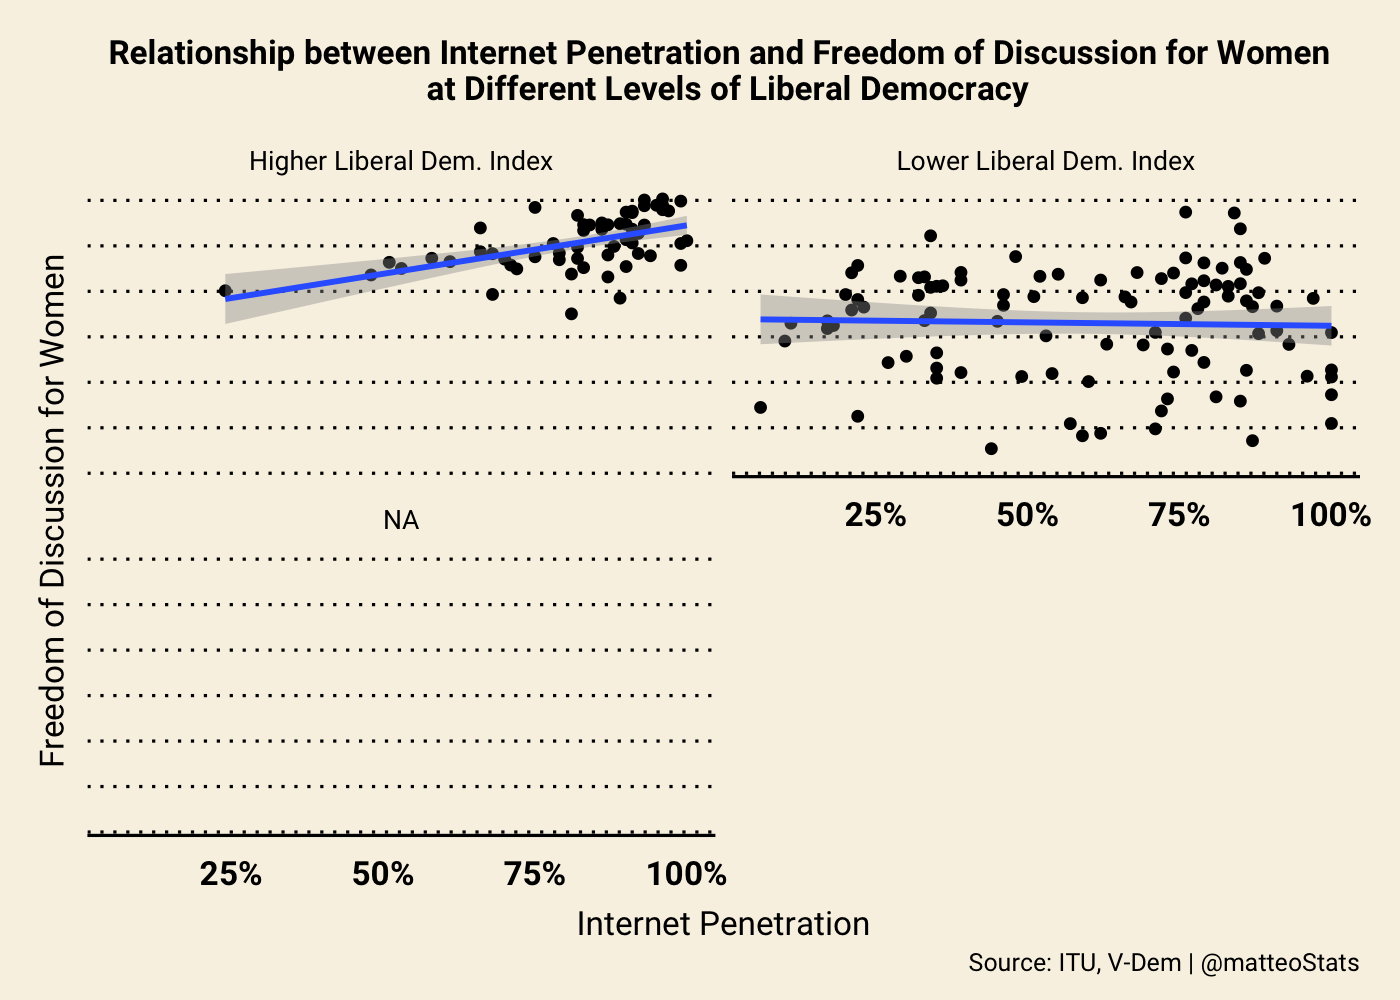
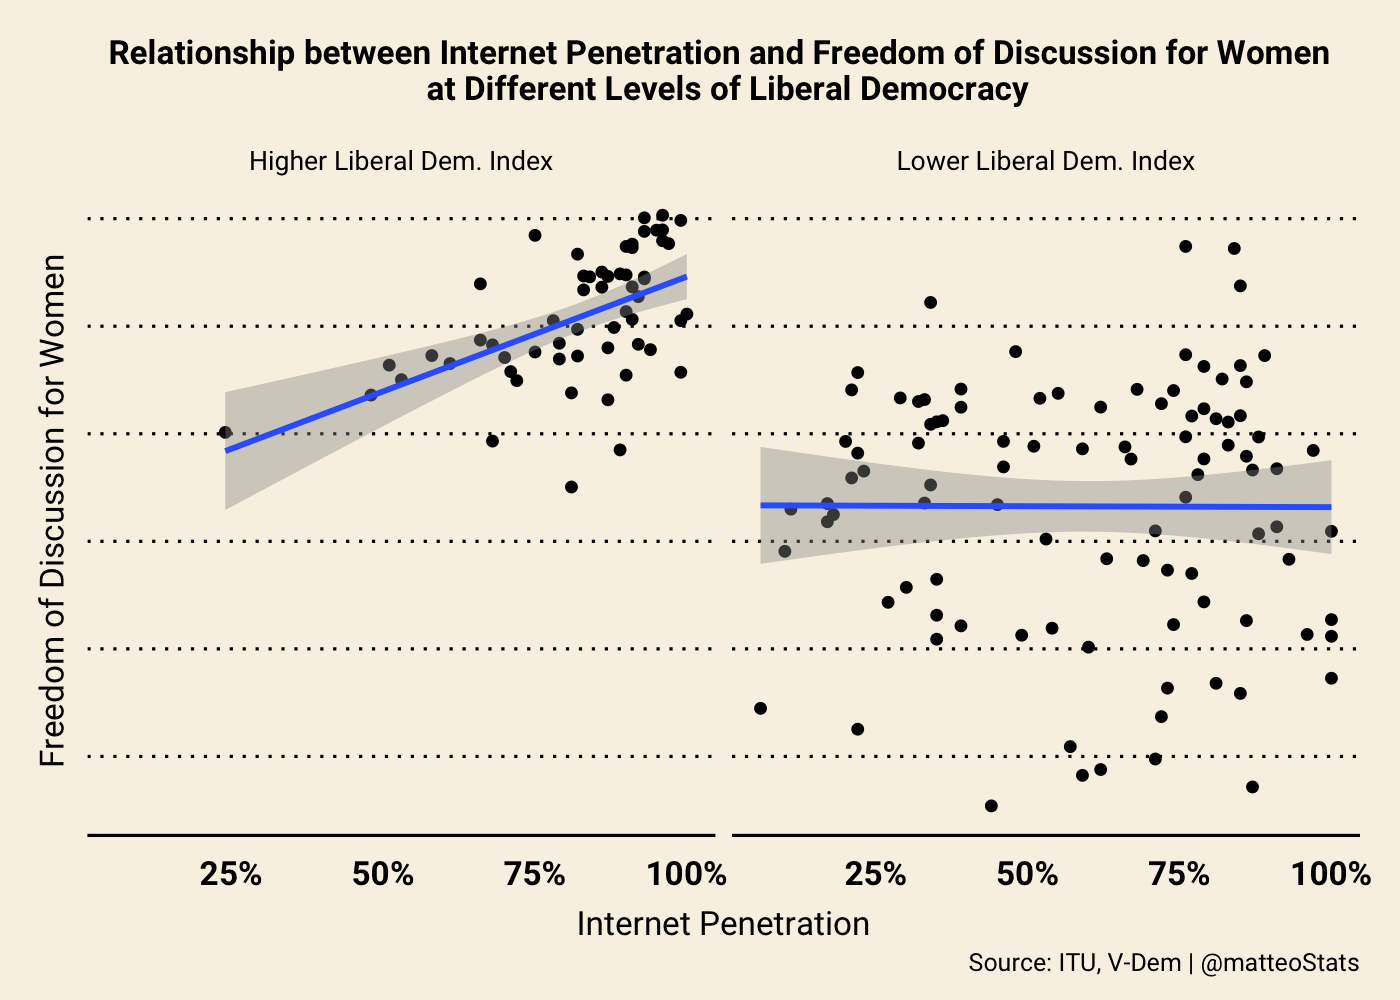
work on report

diff --git a/README.md b/README.md
@@ -5,11 +5,10 @@ Matteo Larrode
 
 ## Intro
 
-I am passionate about both political science and technology, so I grew
-interested in the effect of the rise and diffusion of new technologies
-on international relations. One particular topic that fascinates me is
-the relationship between internet use, especially activity on social
-networks, and freedom of speech.
+A growing body of literature is interested in the effect of the rise and
+diffusion of new technologies on international relations. One particular
+topic we are interested in is the relationship between internet use,
+especially activity on social networks, and freedom of speech.
 
 Social media platforms have fundamentally transformed the landscape of
 social and political movements. They have allowed individuals to bypass
@@ -21,79 +20,13 @@ censored by governments, potentially putting activists at risk.
 
 ## Data Preparation
 
-I created a dataset called “final_data.csv” by joining data on Internet
+We created a dataset called “final_data.csv” by joining data on Internet
 penetration, provided by the [International Telecommunication Union
 (ITU)](https://www.itu.int/en/ITU-D/Statistics/Pages/stat/default.aspx)
 (percentage of the population who has access to the internet), and
 around 50 different metrics used by
 [V-Dem](https://www.v-dem.net/data/the-v-dem-dataset/) to measure levels
 of democracy. This data is available for a total of 157 countries.
-
-``` r
-library(tidyverse)
-```
-
-    ## ── Attaching packages ─────────────────────────────────────── tidyverse 1.3.2 ──
-    ## ✔ ggplot2 3.4.0     ✔ purrr   1.0.1
-    ## ✔ tibble  3.2.1     ✔ dplyr   1.1.0
-    ## ✔ tidyr   1.3.0     ✔ stringr 1.5.0
-    ## ✔ readr   2.1.4     ✔ forcats 0.5.2
-    ## ── Conflicts ────────────────────────────────────────── tidyverse_conflicts() ──
-    ## ✖ dplyr::filter() masks stats::filter()
-    ## ✖ dplyr::lag()    masks stats::lag()
-
-``` r
-library(ggplot2)
-library(ggthemes)
-library(scales)
-```
-
-    ## 
-    ## Attaching package: 'scales'
-    ## 
-    ## The following object is masked from 'package:purrr':
-    ## 
-    ##     discard
-    ## 
-    ## The following object is masked from 'package:readr':
-    ## 
-    ##     col_factor
-
-``` r
-df <- read_csv("data/final_data.csv")
-```
-
-    ## Rows: 202 Columns: 52
-    ## ── Column specification ────────────────────────────────────────────────────────
-    ## Delimiter: ","
-    ## chr  (2): Economy, country_text_id
-    ## dbl (50): value_2021, value_2021_perc, country_id, year, v2x_libdem, v2x_ega...
-    ## 
-    ## ℹ Use `spec()` to retrieve the full column specification for this data.
-    ## ℹ Specify the column types or set `show_col_types = FALSE` to quiet this message.
-
-``` r
-df_noNA <- read_csv("data/final_data.csv")%>% 
-  drop_na()
-```
-
-    ## Rows: 202 Columns: 52
-    ## ── Column specification ────────────────────────────────────────────────────────
-    ## Delimiter: ","
-    ## chr  (2): Economy, country_text_id
-    ## dbl (50): value_2021, value_2021_perc, country_id, year, v2x_libdem, v2x_ega...
-    ## 
-    ## ℹ Use `spec()` to retrieve the full column specification for this data.
-    ## ℹ Specify the column types or set `show_col_types = FALSE` to quiet this message.
-
-``` r
-#dataframe for freedom of discussion, Internet penetration & Level of democracy
-
-df_reduced <- df %>% 
-  select(Economy, value_2021_perc, v2x_libdem, v2cldiscm, v2cldiscw)%>%
-  mutate(is_dem = v2x_libdem >= 0.5,
-         is_dem_long = ifelse(is_dem, "Higher Liberal Dem. Index", "Lower Liberal Dem. Index"))
-```
 
 ## Findings
 
@@ -131,10 +64,6 @@ free_disc_women_plot
 ```
 
     ## `geom_smooth()` using formula = 'y ~ x'
-
-    ## Warning: Removed 43 rows containing non-finite values (`stat_smooth()`).
-
-    ## Warning: Removed 43 rows containing missing values (`geom_point()`).
 
 ![](README_files/figure-gfm/freedom_speech_women-1.png)<!-- -->
 
@@ -194,10 +123,6 @@ free_disc_women_plot2
 ```
 
     ## `geom_smooth()` using formula = 'y ~ x'
-
-    ## Warning: Removed 43 rows containing non-finite values (`stat_smooth()`).
-
-    ## Warning: Removed 43 rows containing missing values (`geom_point()`).
 
 ![](README_files/figure-gfm/freedom_speech_women_faceted-1.png)<!-- -->
 
